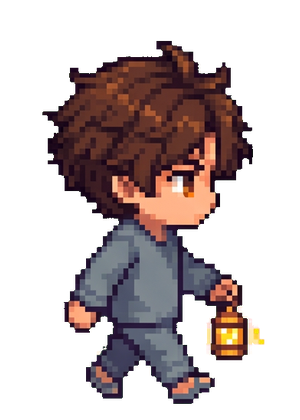
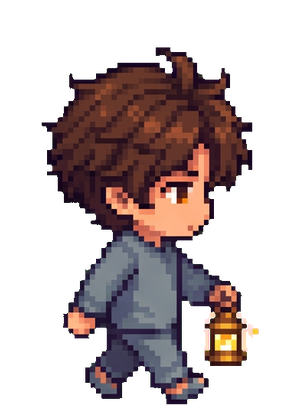
어린 이안 옆모습 걷기: 반대 방향 그림·전등 손 바뀜 제거(왼쪽 0·1번 칸 + 좌우 뒤집기)

Changed region(s): [[0.12, 0.0929, 0.9, 0.9905]]

diff --git a/Tools/Art/build_ian_sprites.py b/Tools/Art/build_ian_sprites.py
@@ -64,6 +64,13 @@ def main():
         canvas = Image.new('RGBA', CANVAS, (0, 0, 0, 0))
         canvas.alpha_composite(im, (round(CANVAS[0] / 2 - cx * scale), round(CANVAS[1] * 0.96 - bottom * scale)))
         canvas.save(os.path.join(OUT, f'ian_{d}_{f}.png'))
+    if CHILD:
+        # 어린 이안 시트의 옆모습 줄은 엉망(왼쪽 4번째 칸이 오른쪽을 봄, 오른쪽 줄은 다리가 거의 같고 전등만 손을 옮겨 다님).
+        # → 왼쪽은 멀쩡한 0·1번 칸을 번갈아(0,1,0,1), 오른쪽은 그 그림을 좌우로 뒤집어 쓴다(2026-11-06 사용자 피드백).
+        for f in range(FRAMES):
+            left = Image.open(os.path.join(OUT, f'ian_left_{f % 2}.png'))
+            left.save(os.path.join(OUT, f'ian_left_{f}.png'))
+            left.transpose(Image.FLIP_LEFT_RIGHT).save(os.path.join(OUT, f'ian_right_{f}.png'))
     print('완료 ->', OUT)
 
 

diff --git a/CLAUDE.md b/CLAUDE.md
@@ -9,6 +9,7 @@
   2. ~~탐색 걷기 순간이동~~ → 2026-11-06 플레이 모드로 확인: 어린 이안 그림 16장 모두 로드, 한 칸 걷는 동안 진행도가 매 프레임 조금씩 올라가고 0.25·0.5·0.75 지점에서 칸 사이에 그려짐(걷기 그림도 바뀜). 키를 누르는 실제 조작감은 사용자가 직접 봐야 함.
   3. 채굴 손맛(어둠 2·작은 결정 3·큰 결정 4번 두드림, `ExploreUI.DigHits`/`DigInterval`). 일반 탐색 전체에 적용됨 — 너무 느리면 줄이기. → 2026-11-06 플레이 모드로 동작 확인: 횟수 2·3·4 맞음, 타격마다 멈칫(0.045초, 깰 때 0.09초)·간격 0.17초, 효과음 dig·dig_crystal·gem_in 로드, 어둠 칸 금빛 금 잘 보임, 결정 깨면 +15/+40과 조각이 몽결정 숫자로 날아감. 결정 위 금은 보라색이라 묻혀서 → 흰 금 + 짙은 남보라 테두리로 바꿈(`DrawDigCell`), 1초 뒤에도 잘 보임 확인. 손맛(속도·소리)은 사용자가 직접 판단.
   4. 문·깨어남 장면(눈꺼풀 연출, chain·blanket 소리), 대사창·툴팁 모양. → 2026-11-06 플레이 모드로 확인: 대사창·WASD 툴팁 정상, 문 모드 → 문 칸 도착 → prologue_wake 10줄 → 메인 흐름 정상, 오류 없음, chain·blanket 로드, 암전·눈뜨기 연출 정상(흔들림은 0.6초라 사진으로 못 잡음). **문제 2개(사용자 결정 대기)**: ① 문 모드 탐색에서 문이 안 보임 — 방 배경 그림의 자물쇠 문이 출현 칸(19,0) 자리에 있는데 밝힌 바닥 타일·위쪽 어둠에 덮임. ② 08 장면(침대에 앉은 이안)에 초상화(왼쪽 이안, 오른쪽 도하 인형)가 삽화 위에 겹쳐 나옴 — 기획 참고 그림(reference/08)엔 초상화 없음 → 대본 08 줄에 `초상화없음`을 넣으면 해결.
+- 2026-11-06 사용자 피드백(어린 이안 탐색 걷기): 오른쪽은 다리 대신 전등만 움직이고, 왼쪽은 가끔 오른쪽 보는 그림이 나옴 → 원본 시트 옆모습 줄이 엉망(왼쪽 4번째 칸이 오른쪽을 봄, 오른쪽 줄은 다리가 같고 전등이 손을 옮겨 다님). 임시로 왼쪽 0·1번 칸만 번갈아 쓰고 오른쪽은 좌우 뒤집기(`build_ian_sprites.py child`에도 반영). 다리 움직임은 아직 작음 → 옆모습 걷기를 다시 생성할지, 잠옷 차림을 바꿀지 사용자 결정 대기.
 - Unity CLI 연결됨(Mac). 에디터 확인이 필요한 일은 Mac에서 도는 세션(또는 Mac 폴더에 연결된 세션)에서 `unity status`부터. 아래 "Unity CLI 연결" 기록 참고.
 - 작업 규칙: main에 바로 커밋·푸시, 커밋 작성자 `jun-FE <craftttime@gmail.com>`, 메시지 끝에 Co-Authored-By 줄. 커밋·문서에 모델 이름 금지. 키·토큰은 채팅에 붙이지 않게.
 - Artlist 크레딧 약 5,600(2026-11-05 기준, 11일 충전). 생성 전 비용 먼저 알리고 승인받기.
